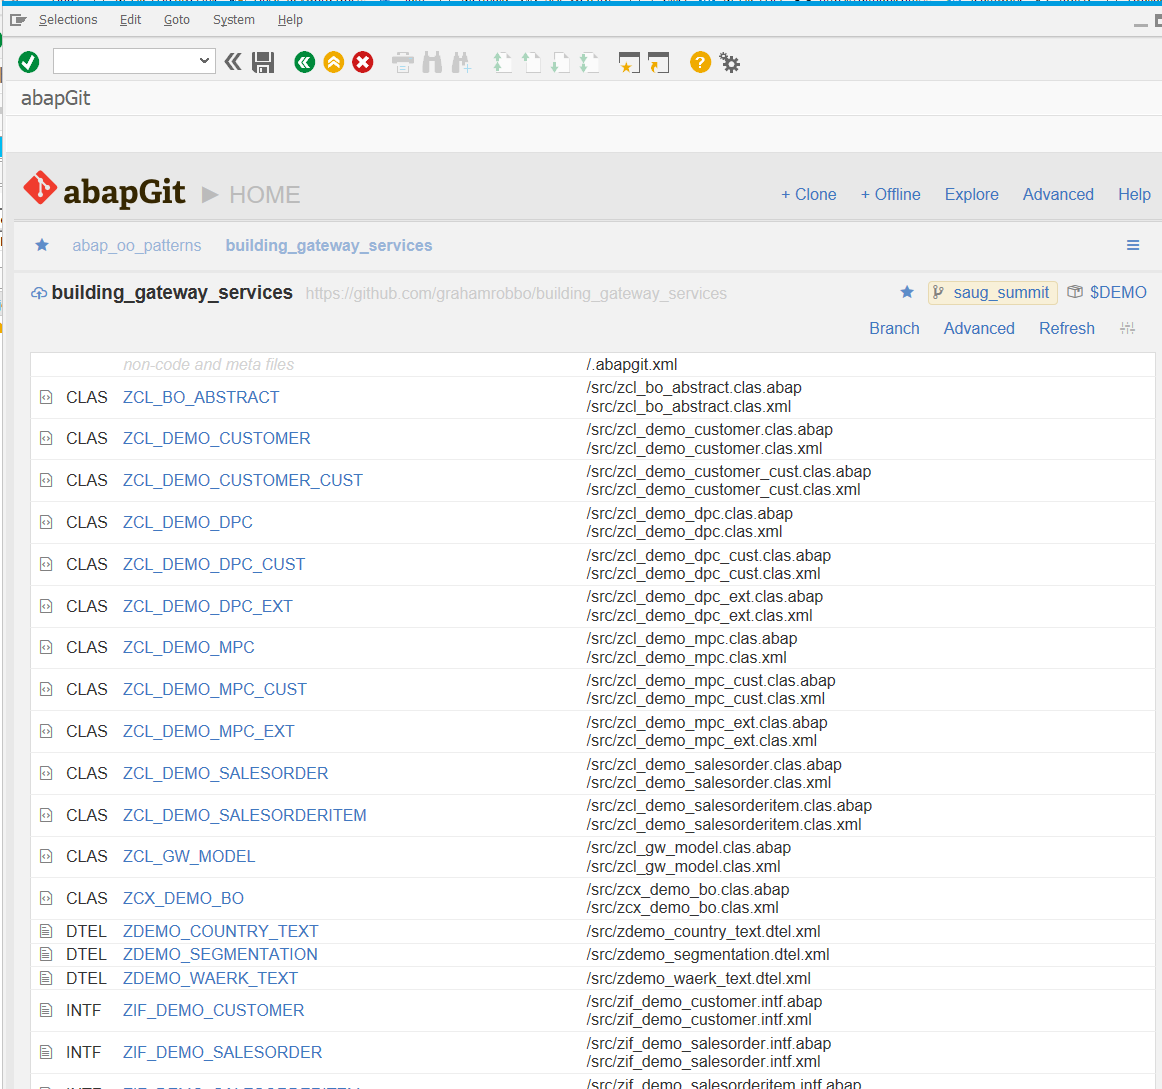
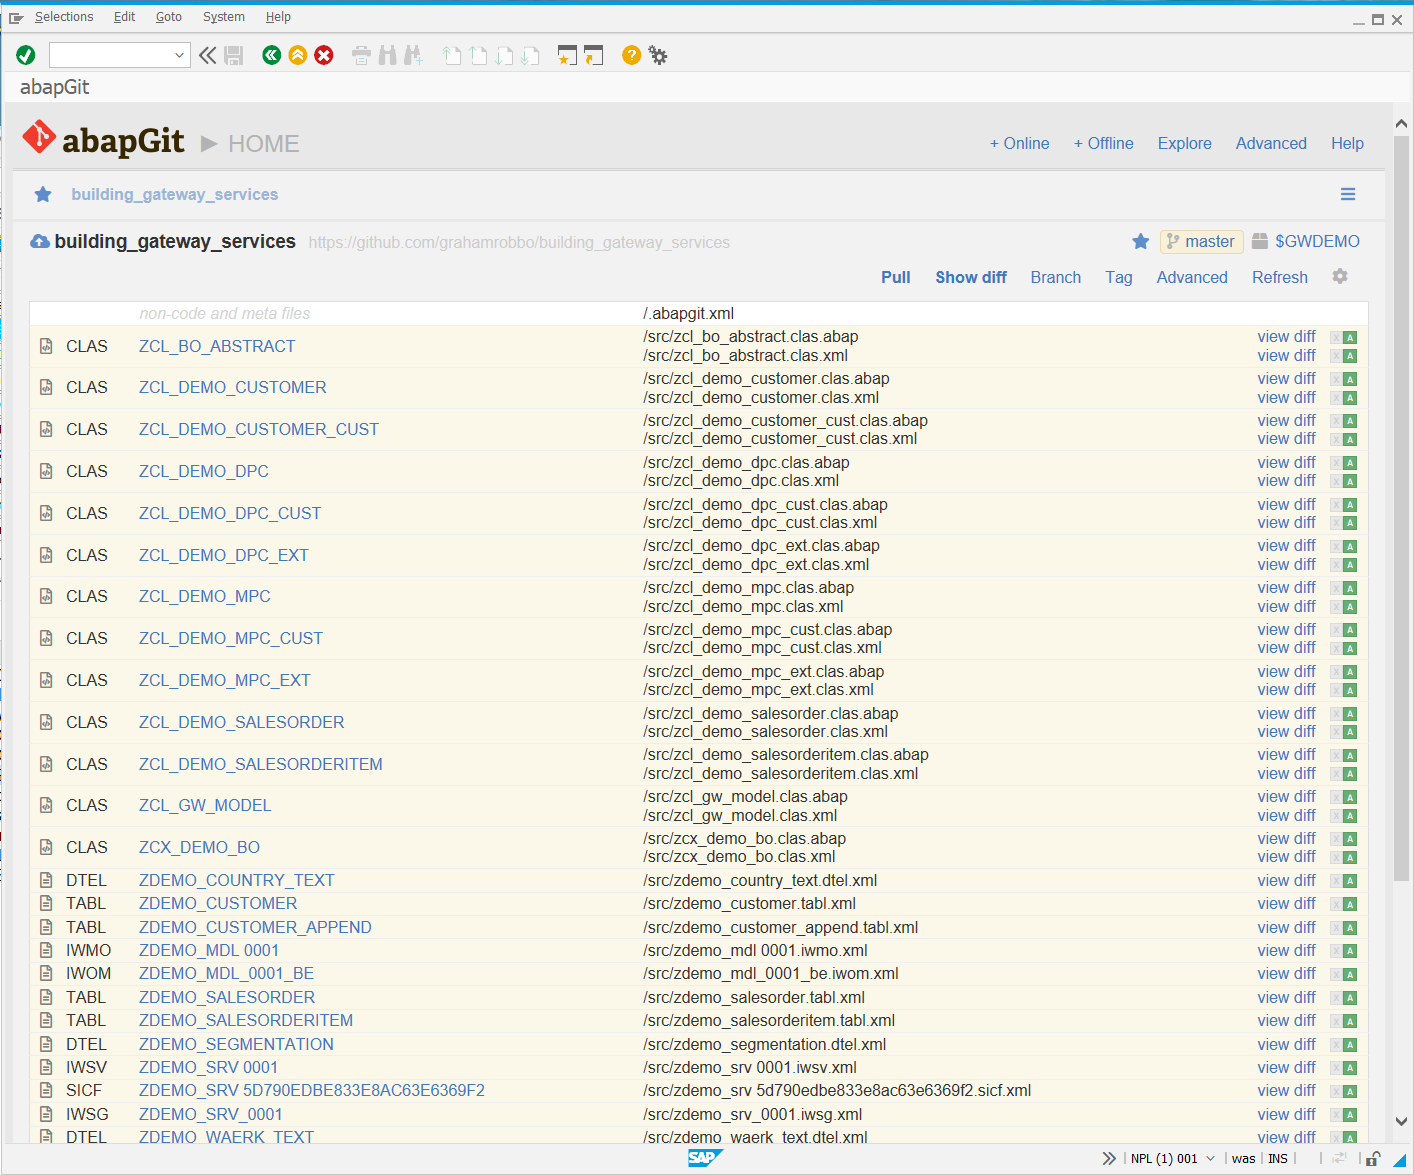
Update installation documentation
abapGit now supports more artifact types

diff --git a/docs/README.md b/docs/README.md
@@ -13,6 +13,7 @@ This presentation has been updated for the 2017 SAUG Sydney Summit where it will
 ![Image](./img/saug_logo.png)
 
 ## Installation
+
 ![Image](./img/abapgit.png)
 
 To install the code onto your ABAP system you will need to use the [abapGit](http://abapgit.org) project by [@larshp](https://github.com/larshp).
@@ -21,9 +22,9 @@ Instructions for installing abapGit can be found [here](http://larshp.github.io/
 
 If you haven't seen abapGit before I highly recommend you take a good look at it. If you find it useful perhaps you could consider joining the project and making your own contributions?
 
-Use the abapGit `Clone` option to link an ABAP package to my GitHub repository. I recommend using a local package just for this purpose called something like `$GWDEMO`.
+Use the abapGit `+ Online` option to link an ABAP package to my GitHub repository. I recommend using a local package just for this purpose called something like `$GWDEMO`.
 
-![Image](./img/clone_repo.png)
+![Image](./img/new_project.png)
 
 Select the `Pull` option to load all the ABAP artifacts into your nominated package.
 
@@ -31,29 +32,14 @@ Select the `Pull` option to load all the ABAP artifacts into your nominated pack
 
 ### Setup
 
-Once all objects are activated you will need to maintain the MPC and DPC locations. The below screenshot shows where to find this in the IMG.
-
-![Image](./img/img.jpg)
-
-![Image](./img/assign_model.jpg)
-
-You will then need to register the service
-
-![Image](./img/add_service.jpg)
-
-Select the "Add Service" button
-
-![Image](./img/addservice.jpg)
-
-The final step to get the Gateway Service running is to add a system alias.
+Once all objects are activated you will need to maintain a system alias. You do this in transaction `/IWFND/MAINT_SERVICE`.
 
 ![Image](./img/system_alias.png)
 
-For all other aspects about registering and activating SAP Gateway services consult the SAP documentation.
+For all other aspects about SAP Gateway services consult the SAP documentation.
 
 Enjoy!
 
 ![Image](./img/robbo.png)
 
     Photo by M Gillet
-
